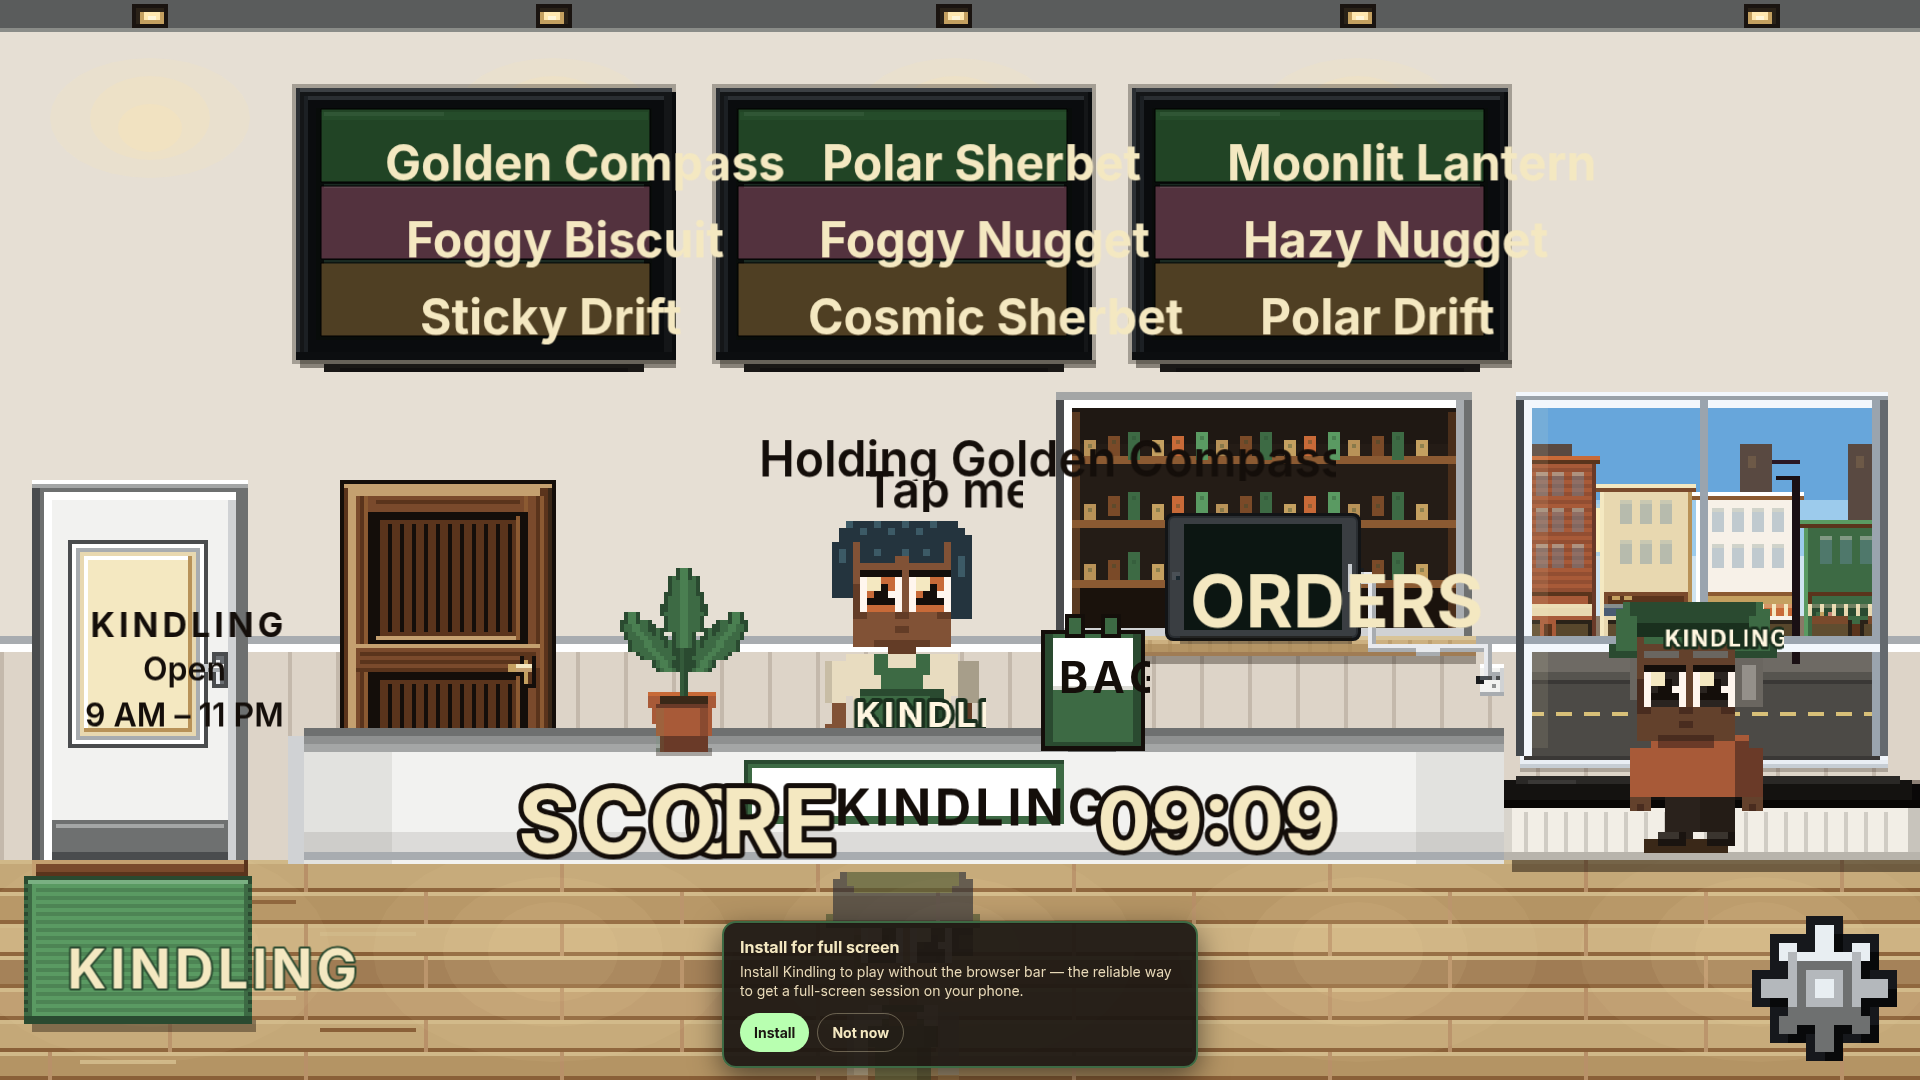
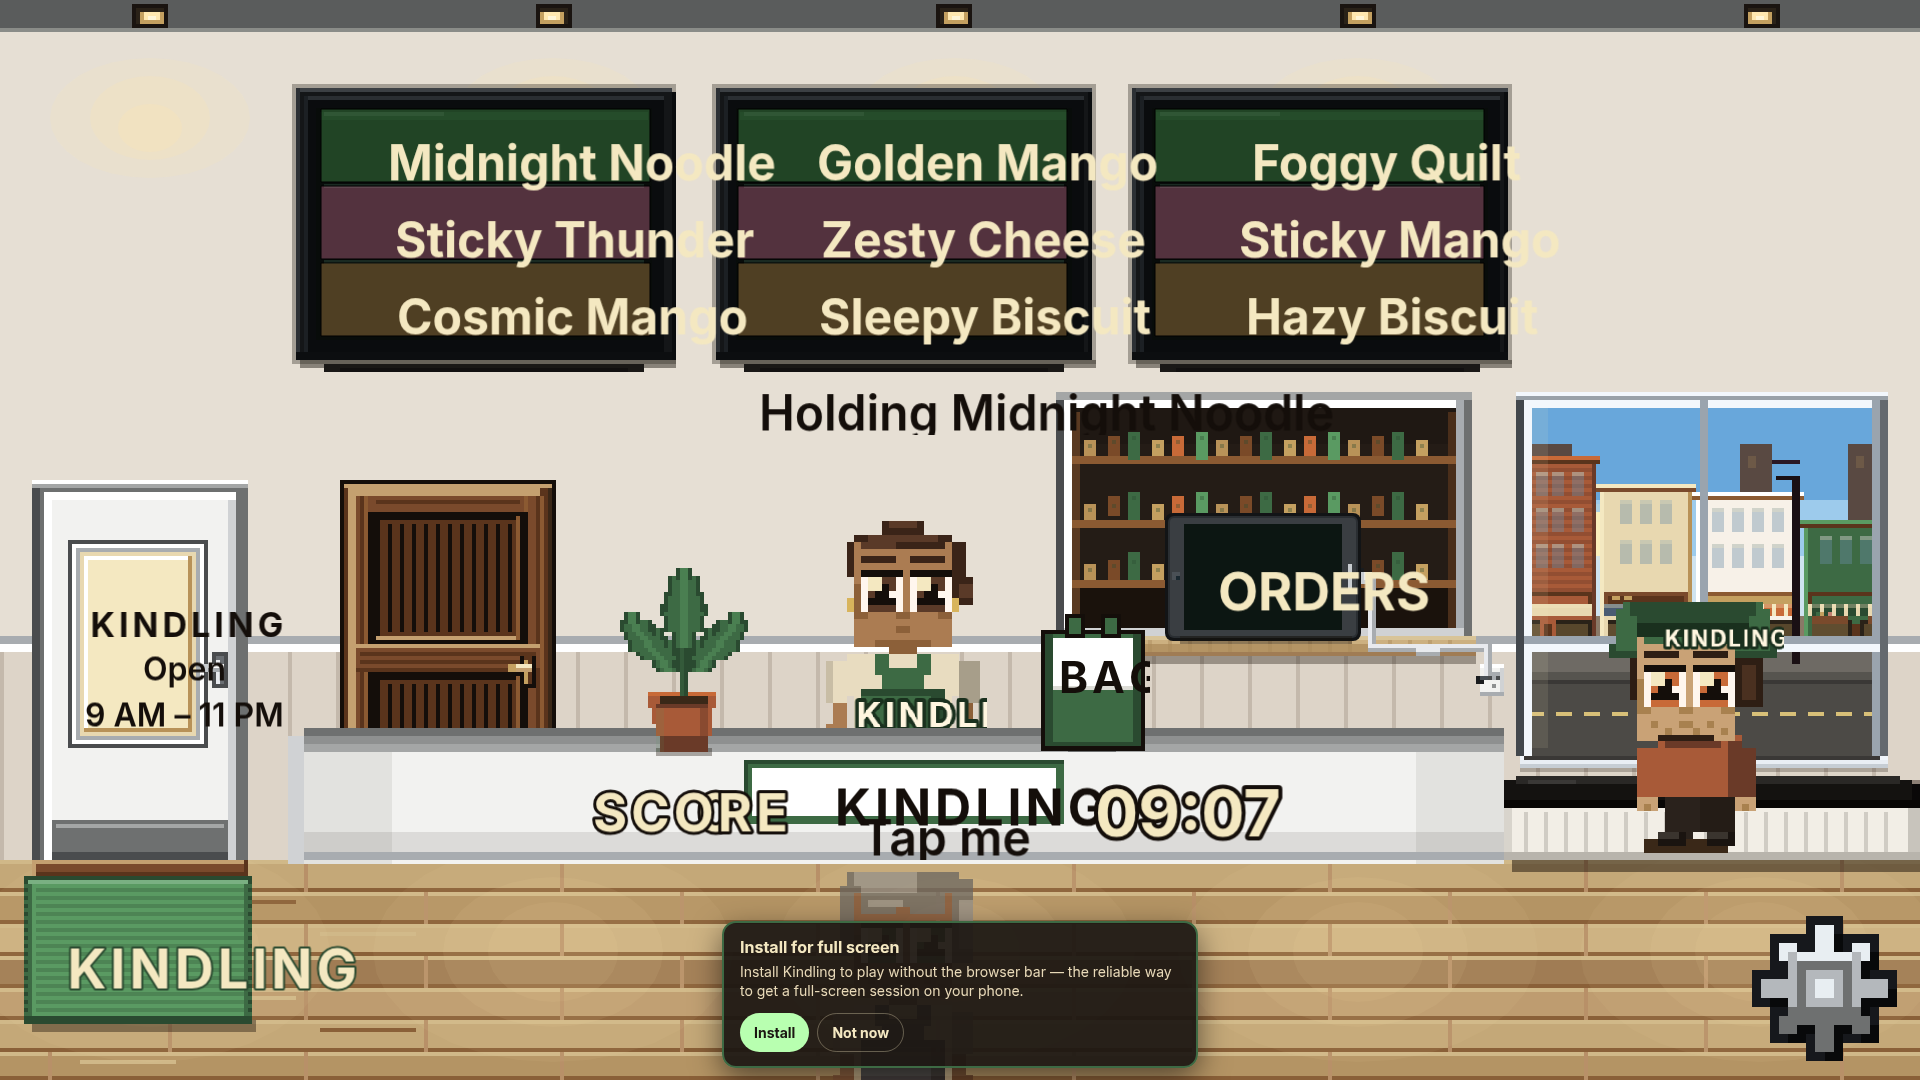
fix(ui): widen shop speech plaques and resize counter readouts (#81)
* fix(ui): widen shop speech plaques and resize counter readouts

- Raise CUSTOMER_SPEECH_MAX_W to 480 and key-lead speech box to 540
- Add noWrap plus refitType on speech setText so plaques stay single-line
- Shrink HUD_SCORE_PX to 28.8 (ORDERS parity) for cleaner counter scale
- Pin ORDERS on tablet with right/up nudge to clear the BAG rack
- Update layout tests and verification captures

* fix(ui): widen speech plaque padding and tune counter readouts

- SHOP_SPEECH_PAD_X (+12px/side) and wider maxWidth ceilings for customer/key-lead
- HUD_SCORE_PX 26.4; tablet inset 2px and optical nudge for cleaner ORDERS fit
- Refresh verification captures

---------

diff --git a/src/scenes/ShopScene.ts b/src/scenes/ShopScene.ts
@@ -70,6 +70,7 @@ import {
   signPlaqueMid,
   syncSignPlaque,
 } from "../ui/signText";
+import { SIGN_PAD_X, SIGN_PAD_Y } from "../ui/signPlaque";
 import {
   layoutDebugEnabled,
   paintLayoutDebug,
@@ -88,6 +89,7 @@ import { beginChipFrame, placeChip } from "../ui/hud/placeChips";
 import { chipPriority } from "../ui/hud/slots";
 import { designHudInset, readCssSafeArea } from "../ui/viewFit";
 import { addUiText } from "../ui/text";
+import { refitType } from "../ui/typekit";
 import {
   Color,
   HUD_SCORE_PX,
@@ -116,7 +118,14 @@ const TABLET_LABEL_PX = HUD_SCORE_PX;
  * that slack was invisible; against a 44px seed it costs real type size, so the box is
  * now the screen minus a hairline that keeps the glyphs off the bezel.
  */
-const TABLET_LABEL_INSET = 4;
+const TABLET_LABEL_INSET = 2;
+/** Nudge ORDERS right so clamp-fit glyphs clear the BAG rack on the tablet's left. */
+const TABLET_LABEL_X_NUDGE = 8;
+/** Lift slightly within the screen — geometric centre reads low on landscape tablets. */
+const TABLET_LABEL_Y_NUDGE = -5;
+/** Wider side margin than default SIGN_PAD so long one-line speech is not edge-tight. */
+const SHOP_SPEECH_PAD_X = SIGN_PAD_X + 12;
+const SHOP_SPEECH_PAD_Y = SIGN_PAD_Y;
 
 /** Concurrent customers the pool covers without mid-frame allocate (4 is typical peak). */
 const CUSTOMER_VISUAL_POOL = 4;
@@ -235,7 +244,7 @@ export class ShopScene extends Phaser.Scene {
 
     const tab = tabletLayout();
     this.tabletScreen = this.add.graphics().setDepth(10);
-    this.tabletLabel = addUiText(this, TABLET.x, tab.screenTop + tab.screenH / 2, "ORDERS", {
+    this.tabletLabel = addUiText(this, 0, 0, "ORDERS", {
       size: typeRolePx("hudTitle"),
       typeRole: "hudTitle",
       color: Color.creamHex,
@@ -251,6 +260,7 @@ export class ShopScene extends Phaser.Scene {
     })
       .setOrigin(0.5)
       .setDepth(11);
+    this.pinTabletLabel(tab);
 
     this.tabletHit = this.add.rectangle(TABLET.x, TABLET.y, TABLET_W, TABLET_H, 0x000000, 0.001).setDepth(12);
     enableItemHit(this.tabletHit);
@@ -289,7 +299,10 @@ export class ShopScene extends Phaser.Scene {
       typeRole: "speech",
       align: "center",
       fontStyle: "600",
-      maxWidth: typeRoleBox(440, "speech"),
+      noWrap: true,
+      padX: SHOP_SPEECH_PAD_X,
+      padY: SHOP_SPEECH_PAD_Y,
+      maxWidth: typeRoleBox(660, "speech"),
       maxHeight: typeRoleBox(104, "speech"),
     })
       .setOrigin(0.5, 0.5)
@@ -361,7 +374,10 @@ export class ShopScene extends Phaser.Scene {
     this.keyLeadBubble.setVisible(showKeyLeadBubble);
     if (showKeyLeadBubble) {
       const textDirty = this.keyLeadBubble.text !== callout;
-      if (textDirty) this.keyLeadBubble.setText(callout);
+      if (textDirty) {
+        this.keyLeadBubble.setText(callout);
+        refitType(this.keyLeadBubble);
+      }
       syncSignPlaque(this.keyLeadBubble);
       const lead = keyLeadSpeechPlaqueAboveHead(
         this.keyLeadBubble,
@@ -385,7 +401,10 @@ export class ShopScene extends Phaser.Scene {
     this.driverBubble.setVisible(showDriverBubble);
     if (showDriverBubble) {
       const driverTextDirty = this.driverBubble.text !== driverLine;
-      if (driverTextDirty) this.driverBubble.setText(driverLine);
+      if (driverTextDirty) {
+        this.driverBubble.setText(driverLine);
+        refitType(this.driverBubble);
+      }
       this.driverBubble.setAlpha(1);
       syncSignPlaque(this.driverBubble);
       const panelH = signPlaqueExtents(this.driverBubble).panelH;
@@ -634,6 +653,13 @@ export class ShopScene extends Phaser.Scene {
     this.pinQueueBadge(tab);
   }
 
+  /** Centre ORDERS inside the tablet screen with a slight right/up nudge for bag clearance. */
+  private pinTabletLabel(tab: ReturnType<typeof tabletLayout>): void {
+    const x = TABLET.x + TABLET_LABEL_X_NUDGE;
+    const y = tab.screenTop + (tab.screenH - tab.homeH) / 2 + TABLET_LABEL_Y_NUDGE;
+    this.tabletLabel.setPosition(x, y);
+  }
+
   /** Top-right of the ORDERS tablet bezel — re-pin after every sync so plaque layout cannot drift. */
   private pinQueueBadge(tab: ReturnType<typeof tabletLayout>, badgeInset = 6): void {
     syncSignPlaque(this.queueBadge);
@@ -779,6 +805,7 @@ export class ShopScene extends Phaser.Scene {
   /** Boot warm under the loading gate — first walk-in must not raster + plaque on one frame. */
   private warmCustomerSpeech(visual: CustomerVisual): void {
     visual.bubble.setText("Welcome in!");
+    refitType(visual.bubble);
     visual.feedback.setText("Thanks!");
     visual.bubble.setVisible(true);
     visual.feedback.setVisible(true);
@@ -806,6 +833,9 @@ export class ShopScene extends Phaser.Scene {
       typeRole: "speech",
       align: "center",
       fontStyle: "600",
+      noWrap: true,
+      padX: SHOP_SPEECH_PAD_X,
+      padY: SHOP_SPEECH_PAD_Y,
       maxWidth: CUSTOMER_SPEECH_MAX_W,
       maxHeight: CUSTOMER_SPEECH_H,
     })
@@ -883,7 +913,10 @@ export class ShopScene extends Phaser.Scene {
       if (!customer.bubble) continue;
       let visual = this.customers.get(customer.orderId);
       if (!visual) visual = this.acquireCustomerVisual(customer.orderId, customer.look);
-      if (visual.bubble.text !== customer.bubble) visual.bubble.setText(customer.bubble);
+      if (visual.bubble.text !== customer.bubble) {
+        visual.bubble.setText(customer.bubble);
+        refitType(visual.bubble);
+      }
       syncSignPlaque(visual.bubble);
     }
 
@@ -934,7 +967,10 @@ export class ShopScene extends Phaser.Scene {
       const layout = this.customerLayoutById.get(customer.orderId);
       if (customer.bubble && settled) {
         bubble.setAlpha(1);
-        if (bubble.text !== customer.bubble) bubble.setText(customer.bubble);
+        if (bubble.text !== customer.bubble) {
+          bubble.setText(customer.bubble);
+          refitType(bubble);
+        }
         const pin = layout
           ? { x: layout.x, y: layout.y }
           : speechPlaqueAboveHead(bubble, sprite.x, standingPersonHeadTop(sprite));

diff --git a/src/scenes/shopSpeech.test.ts b/src/scenes/shopSpeech.test.ts
@@ -47,6 +47,9 @@ describe("speech stays off the models it belongs to", () => {
     expect(src, "key-lead bubble centered above head band").toMatch(
       /keyLeadBubble = addSignText[\s\S]*?\.setOrigin\(0\.5, 0\.5\)/,
     );
+    expect(src, "key-lead holding copy stays single-line with room to breathe").toMatch(
+      /keyLeadBubble = addSignText[\s\S]*noWrap: true[\s\S]*padX: SHOP_SPEECH_PAD_X[\s\S]*typeRoleBox\(660, "speech"\)/,
+    );
     expect(src, "driver bubble centered above head").toMatch(
       /driverBubble = addSignText[\s\S]*?\.setOrigin\(0\.5, 0\.5\)/,
     );
@@ -55,11 +58,11 @@ describe("speech stays off the models it belongs to", () => {
 
   it("dirty-guards key-lead and driver bubble setText and pins only on copy/visibility change", () => {
     const sync = between(src, "private sync(snap: SimSnapshot)", "const packNext", "shop sync");
-    expect(sync, "key-lead text guarded").toMatch(
-      /const textDirty = this\.keyLeadBubble\.text !== callout[\s\S]*if \(textDirty\) this\.keyLeadBubble\.setText\(callout\)/,
+    expect(sync, "key-lead text guarded and refit").toMatch(
+      /const textDirty = this\.keyLeadBubble\.text !== callout[\s\S]*if \(textDirty\)[\s\S]*setText\(callout\)[\s\S]*refitType\(this\.keyLeadBubble\)/,
     );
-    expect(sync, "driver text guarded").toMatch(
-      /const driverTextDirty = this\.driverBubble\.text !== driverLine[\s\S]*if \(driverTextDirty\) this\.driverBubble\.setText\(driverLine\)/,
+    expect(sync, "driver text guarded and refit").toMatch(
+      /const driverTextDirty = this\.driverBubble\.text !== driverLine[\s\S]*if \(driverTextDirty\)[\s\S]*setText\(driverLine\)[\s\S]*refitType\(this\.driverBubble\)/,
     );
     expect(sync, "no unconditional key-lead setText").not.toMatch(/keyLeadBubble[\s\S]*?\.setText\(callout \?\? ""\)/);
     expect(sync, "pin key-lead only when shown").toMatch(/if \(showKeyLeadBubble\)/);
@@ -107,9 +110,14 @@ describe("speech stays off the models it belongs to", () => {
     expect(sync, "layout keyed on order id + quantized x + plaque height").toContain("Math.round(c.x)");
     expect(sync, "layout keyed on order id + quantized x + plaque height").toMatch(/Math\.round\(h\)/);
     expect(sync, "measures plaque before layoutCustomerSpeech").toMatch(/signPlaqueExtents\(visual\.bubble\)/);
-    expect(sync, "bubble setText guarded").toMatch(/if \(bubble\.text !== customer\.bubble\) bubble\.setText/);
+    expect(sync, "bubble setText guarded and refit").toMatch(
+      /if \(bubble\.text !== customer\.bubble\)[\s\S]*bubble\.setText[\s\S]*refitType\(bubble\)/,
+    );
     const make = between(src, "private makeCustomerVisual(", "return { sprite, bubble, feedback", "makeCustomerVisual");
     expect(make, "fixed speech token at build").toMatch(/typeRole: "speech"/);
+    expect(make, "customer order stays single-line with wider pad").toMatch(
+      /noWrap: true[\s\S]*padX: SHOP_SPEECH_PAD_X/,
+    );
     expect(sync, "look guarded before applyPersonTexture").toMatch(
       /if \(visual\.look !== customer\.look\)[\s\S]*applyPersonTexture\(visual\.sprite, customer\.look\)/,
     );

diff --git a/src/scenes/counterLayout.test.ts b/src/scenes/counterLayout.test.ts
@@ -95,6 +95,8 @@ const POP_LIFT = number(placeReadouts, /scorePopLayer\.setPosition\(signLeft, y 
 const popTween = between(readouts, "spawnScorePop(delta: number, screen?: { x: number; y: number }): void {", "\n  }", "spawnScorePop");
 const POP_RISE = number(popTween, /y: \{ from: 0, to: -(\d+) \}/, "pop rise");
 const ORDERS_INSET = number(shop, /const TABLET_LABEL_INSET = (\d+);/, "TABLET_LABEL_INSET");
+const ORDERS_X_NUDGE = number(shop, /const TABLET_LABEL_X_NUDGE = (\d+);/, "TABLET_LABEL_X_NUDGE");
+const ORDERS_Y_NUDGE = number(shop, /const TABLET_LABEL_Y_NUDGE = (-?\d+);/, "TABLET_LABEL_Y_NUDGE");
 
 const tab = tabletLayout();
 /**
@@ -125,8 +127,8 @@ const scorePop: Rect = {
 };
 const scoreGroup = union([scoreValue, scoreCaption, scorePop]);
 const ordersLabel = centred(
-  TABLET.x,
-  tab.screenTop + tab.screenH / 2,
+  TABLET.x + ORDERS_X_NUDGE,
+  tab.screenTop + (tab.screenH - tab.homeH) / 2 + ORDERS_Y_NUDGE,
   tab.screenW - ORDERS_INSET * 2,
   tab.screenH - ORDERS_INSET * 2,
 );
@@ -244,13 +246,19 @@ describe("ORDERS type size", () => {
     expect(ordersBlock).toContain('typeRolePx("hudTitle")');
   });
 
+  it("pins ORDERS inside the tablet screen with a bag-clearance nudge", () => {
+    expect(shop).toContain("private pinTabletLabel(");
+    expect(shop).toContain("TABLET_LABEL_X_NUDGE");
+    expect(shop).toContain("this.pinTabletLabel(tab)");
+  });
+
   it("gives the label the whole tablet screen bar a hairline, because the seed will not fit", () => {
     // Measured in-browser at 1920x1080: the seed is 44px and the label renders at 33px,
     // its 135px of glyphs against a 136px box. Width is the binding constraint, so every
     // pixel of box is type size — an 8px inset a side, which is what this replaced, cost
     // 2px of rendered type. Clamp-fit sizes down from the ceiling, so the seed is a
     // cap and the rendered size has to be read off the live object, never assumed from here.
-    expect(ORDERS_INSET).toBeLessThanOrEqual(4);
+    expect(ORDERS_INSET).toBeLessThanOrEqual(2);
     expect(tab.screenW - ORDERS_INSET * 2).toBeGreaterThanOrEqual(136);
     // Caps tracking would have spent ~8% of that width on the gaps between six letters.
     expect(ordersBlock).toContain("letterSpacing: 0");

diff --git a/src/maps/shopT0.test.ts b/src/maps/shopT0.test.ts
@@ -144,7 +144,7 @@ describe("customer standing slots", () => {
   it("gives an overhead chip the room its horizontal span leaves it", () => {
     expect(customerSpeechWidth(Infinity), "open span").toBe(CUSTOMER_SPEECH_MAX_W);
     expect(customerSpeechWidth(CUSTOMER_SPEECH_MIN_W), "tight span").toBe(CUSTOMER_SPEECH_MIN_W);
-    expect(customerSpeechWidth(400), "cap at max").toBe(CUSTOMER_SPEECH_MAX_W);
+    expect(customerSpeechWidth(600), "cap at max").toBe(CUSTOMER_SPEECH_MAX_W);
   });
 
   it("holds speech back while its owner is still crossing the floor", () => {

diff --git a/src/ui/typeScale.test.ts b/src/ui/typeScale.test.ts
@@ -37,7 +37,7 @@ describe("typeScale tokens", () => {
   it("applies MSG_SCALE to message-tier roles once", () => {
     expect(typeRolePx("hudBody", 1, { coarsePointer: false })).toBe(`${20 * MSG_SCALE}px`);
     expect(typeRolePx("speech", 1, { coarsePointer: false })).toBe(`${Math.round(19.2 * MSG_SCALE * 10000) / 10000}px`);
-    expect(typeRolePx("hudTitle", 1, { coarsePointer: false })).toBe("35.2px");
+    expect(typeRolePx("hudTitle", 1, { coarsePointer: false })).toBe("26.4px");
     expect(typeClockPx(1, { coarsePointer: false })).toBe("32px");
   });
 

diff --git a/src/maps/shopT0.ts b/src/maps/shopT0.ts
@@ -186,7 +186,7 @@ export function customerSlotX(index: number): number {
 /** Daylight left between one chip and the next. */
 export const CUSTOMER_SPEECH_PAD = 8;
 /** Widest a chip draws when the floor is quiet enough to give it the room (~+25%). */
-export const CUSTOMER_SPEECH_MAX_W = 350;
+export const CUSTOMER_SPEECH_MAX_W = 560;
 /** Narrowest side chip when neighbours leave little room (~+25%). */
 export const CUSTOMER_SPEECH_MIN_W = 150;
 

diff --git a/src/ui/theme.type.test.ts b/src/ui/theme.type.test.ts
@@ -106,6 +106,6 @@ describe("mobile text ramp gating", () => {
   it("does not oversize desktop stages", () => {
     const hints = { coarsePointer: false as const, viewportCssWidth: 1920 };
     expect(scaleMsgPx(20, 1, hints)).toBe("25px");
-    expect(scaleChromePx(35.2, 1, hints)).toBe("35.2px");
+    expect(scaleChromePx(26.4, 1, hints)).toBe("26.4px");
   });
 });

diff --git a/src/ui/theme.ts b/src/ui/theme.ts
@@ -65,7 +65,7 @@ export const Color = {
  * {@link scaleChromePx} + `fitTypeToBox` `minCssFloor` / `maxCssCeiling`.
  */
 /** SCORE digits and caption — exported for tablet ORDERS parity. */
-export const HUD_SCORE_PX = 35.2;
+export const HUD_SCORE_PX = 26.4;
 export const HUD_READOUT_PX = 32;
 export const HUD_COG_CAPTION_PX = 18 * 1.25;
 
